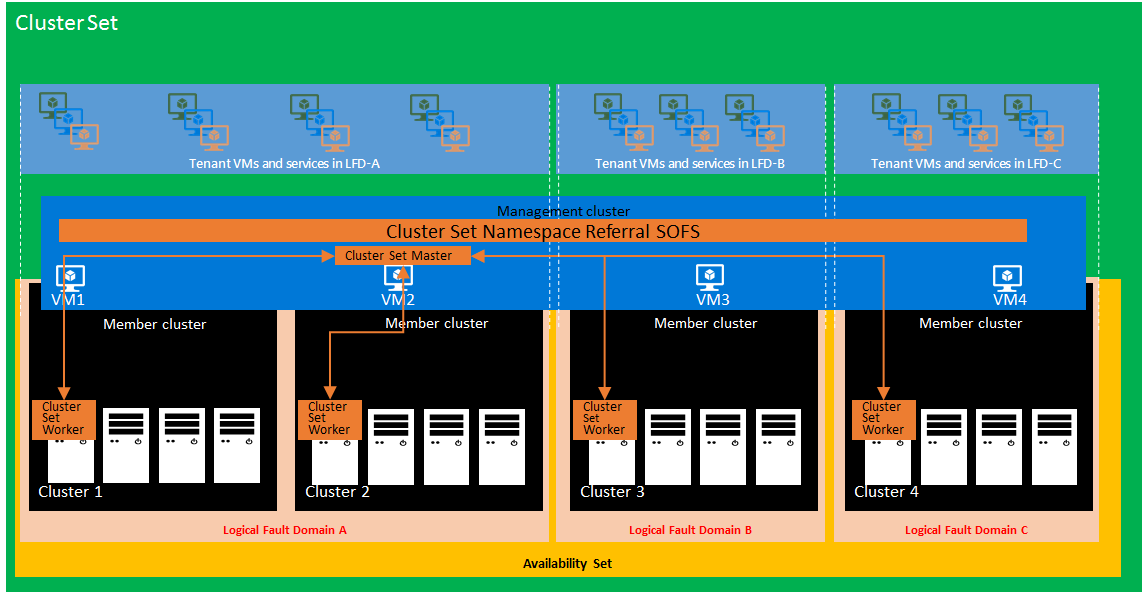
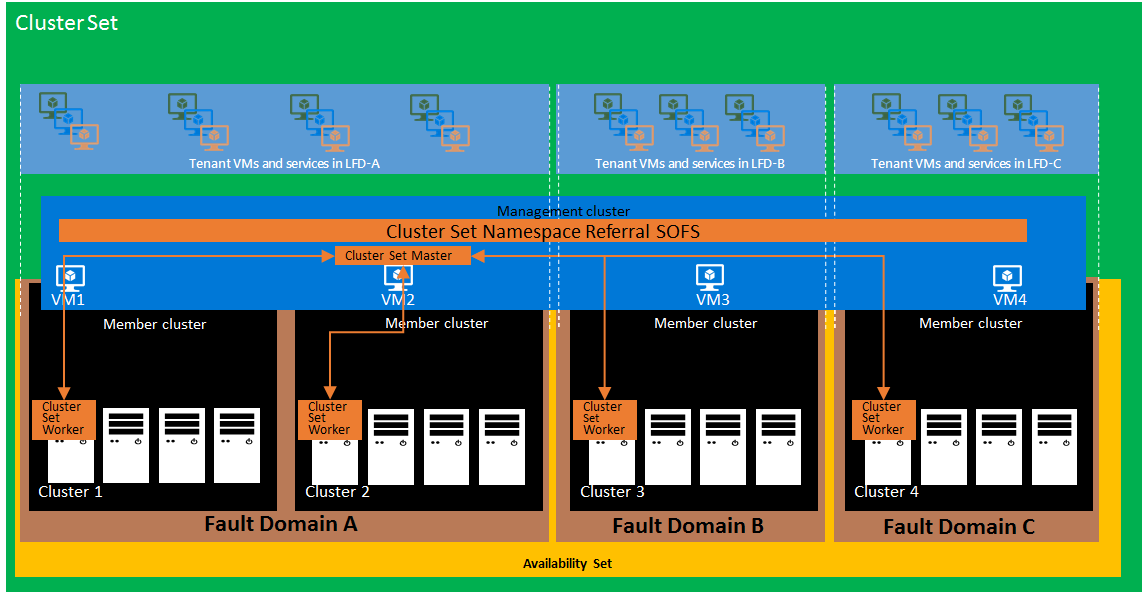
few adjustments

Changed region(s): [[0.0, 0.4561, 0.9807, 0.9426]]

diff --git a/WindowsServerDocs/storage/storage-spaces/Cluster-Sets.md b/WindowsServerDocs/storage/storage-spaces/Cluster-Sets.md
@@ -1,12 +1,12 @@
 ---
 title: Cluster Sets
-prod: windows-server-threshold
+ms.prod: windows-server-threshold
 ms.manager: eldenc
 ms.technology: storage-spaces
 ms.topic: article
 author: johnmarlin-msft
 ms.date: 06/25/2018
-description: This article describes the Cluster setsnario
+description: This article describes the Cluster sets scenario
 ms.localizationpriority: medium
 ---
 
@@ -24,12 +24,12 @@ Cluster sets technology is developed to meet specific customer requests operatin
 - Significantly increase the supported SDDC cloud scale for running highly avaialble virtual machines by combining multiple smaller clusters into a single large fabric, even while keeping the software fault boundary to a single cluster
 - Manage entire Failover Cluster lifecycle including onboarding and retiring clusters, without impacting tenant virtual machine availability, via fluidly migrating virtual machines across this large fabric
 - Easily change the compute-to-storage ratio in your hyper-converged I
-- Benefit from [Azure-like Fault Domains and Availability setstps://docs.microsoft.com/azure/virtual-machines/windows/manage-availability) across clusters in initial virtual machine placement and subsequent virtual machine migration
-- Mix-and-match different generations of CPU hardware into the same Cluster Set fabric, even while keeping individual fault domains homogenous for maximum efficiency.  Please note that the recommendation of same hardware is still present within each individual cluster as well as the entire cluster set.
+- Benefit from [Azure-like Fault Domains and Availability sets](htttps://docs.microsoft.com/azure/virtual-machines/windows/manage-availability) across clusters in initial virtual machine placement and subsequent virtual machine migration
+- Mix-and-match different generations of CPU hardware into the same cluster set fabric, even while keeping individual fault domains homogenous for maximum efficiency.  Please note that the recommendation of same hardware is still present within each individual cluster as well as the entire cluster set.
 
 From a high level view, this is what cluster sets can look like.
 
-![Cluster setsution View](media\Cluster-setsrview\Cluster-setsution-View.png)
+![Cluster sets solution View](media\Cluster-sets-Overview\Cluster-sets-solution-View.png)
 
 The following provides a quick summary of each of the elements in the above image:
 
@@ -39,7 +39,7 @@ Management cluster in a cluster set is a Failover Cluster that hosts the highly-
 
 **Member cluster**
 
-A member cluster in a cluster set is typically a traditional hyper-converged cluster running virtual machine and Storage Spaces Direct workloads. Multiple member clusters participate in a single cluster set deployment, forming the larger SDDC cloud fabric. Member clusters differ from a management cluster in two key aspects: member clusters participate in fault domain and availability set constructs, and member clusters are also sized to host virtual machine and Storage Spaces Direct workloads. Cluster set virtual machines that move across cluster boundaries in a Cluster set must not be hosted on the management cluster for this reason.
+A member cluster in a cluster set is typically a traditional hyper-converged cluster running virtual machine and Storage Spaces Direct workloads. Multiple member clusters participate in a single cluster set deployment, forming the larger SDDC cloud fabric. Member clusters differ from a management cluster in two key aspects: member clusters participate in fault domain and availability set constructs, and member clusters are also sized to host virtual machine and Storage Spaces Direct workloads. Cluster set virtual machines that move across cluster boundaries in a cluster set must not be hosted on the management cluster for this reason.
 
 **Cluster set namespace referral SOFS**
 
@@ -63,16 +63,16 @@ An availability set helps the administrator configure desired redundancy of clus
 
 ## Why use cluster sets
 
-Cluster setsvides the benefit of scale without sacrificing resiliency.  
+Cluster sets provides the benefit of scale without sacrificing resiliency.  
 
-Cluster setsows for clustering multiple clusters together to create a large fabric, while each cluster remains independent for resiliency.  For example, you have a several 4-node HCI clusters running virtual machines.  Each cluster provides the resiliency needed for itself.  If the storage or memory starts to fill up, scaling up is your next step.  With scaling up, there are some options and considerations.
+Cluster sets allows for clustering multiple clusters together to create a large fabric, while each cluster remains independent for resiliency.  For example, you have a several 4-node HCI clusters running virtual machines.  Each cluster provides the resiliency needed for itself.  If the storage or memory starts to fill up, scaling up is your next step.  With scaling up, there are some options and considerations.
 
 1. Add more storage to the current cluster.  With Storage Spaces Direct, this may be tricky as the exact same model/firmware drives may not be available.  The consideration of rebuild times also need to be taken into account.
 2. Add more memory.  What if you are maxed out on the memory the machines can handle?  What if all available memory slots are full?
 3. Add additional compute nodes with drives into the current cluster.  This takes us back to Option 1 needing to be considered.
 4. Purchase a whole new cluster
 
-This is where cluster csets provides the benefit of scaling.  If I add my clusters into a cluster set, I can take advantage of storage or memory that may be available on another cluster without any additional purchases.  From a resiliency perspective, adding additional nodes to a Storage Spaces Direct is not going to provide additional votes for quorum.  As mentioned [here](https://docs.microsoft.com/en-us/windows-server/storage/storage-spaces/drive-symmetry-considerations), a Storage Spaces Direct Cluster can survive the loss of 2 nodes before going down.  If you have a 4-node HCI cluster, 3 nodes go down will take the entire cluster down.  If you have an 8-node cluster, 3 nodes go down will take the entire cluster down.  With Cluster setst has two 4-node HCI clusters in the set, 2 nodes in one HCI go down and 1 node in the other HCI go down, both clusters remain up.  Is it better to create one large 16-node Storage Spaces Direct cluster or break it down into four 4-node clusters and use cluster sets?  Having four 4-node clusters with cluster sets gives the same scale, but better resiliency in that multiple compute nodes can go down (unexpectedly or for maintenance) and production remains.
+This is where cluster sets provides the benefit of scaling.  If I add my clusters into a cluster set, I can take advantage of storage or memory that may be available on another cluster without any additional purchases.  From a resiliency perspective, adding additional nodes to a Storage Spaces Direct is not going to provide additional votes for quorum.  As mentioned [here](https://docs.microsoft.com/windows-server/storage/storage-spaces/drive-symmetry-considerations), a Storage Spaces Direct Cluster can survive the loss of 2 nodes before going down.  If you have a 4-node HCI cluster, 3 nodes go down will take the entire cluster down.  If you have an 8-node cluster, 3 nodes go down will take the entire cluster down.  With Cluster sets that has two 4-node HCI clusters in the set, 2 nodes in one HCI go down and 1 node in the other HCI go down, both clusters remain up.  Is it better to create one large 16-node Storage Spaces Direct cluster or break it down into four 4-node clusters and use cluster sets?  Having four 4-node clusters with cluster sets gives the same scale, but better resiliency in that multiple compute nodes can go down (unexpectedly or for maintenance) and production remains.
 
 ## Considerations for deploying cluster sets
 
